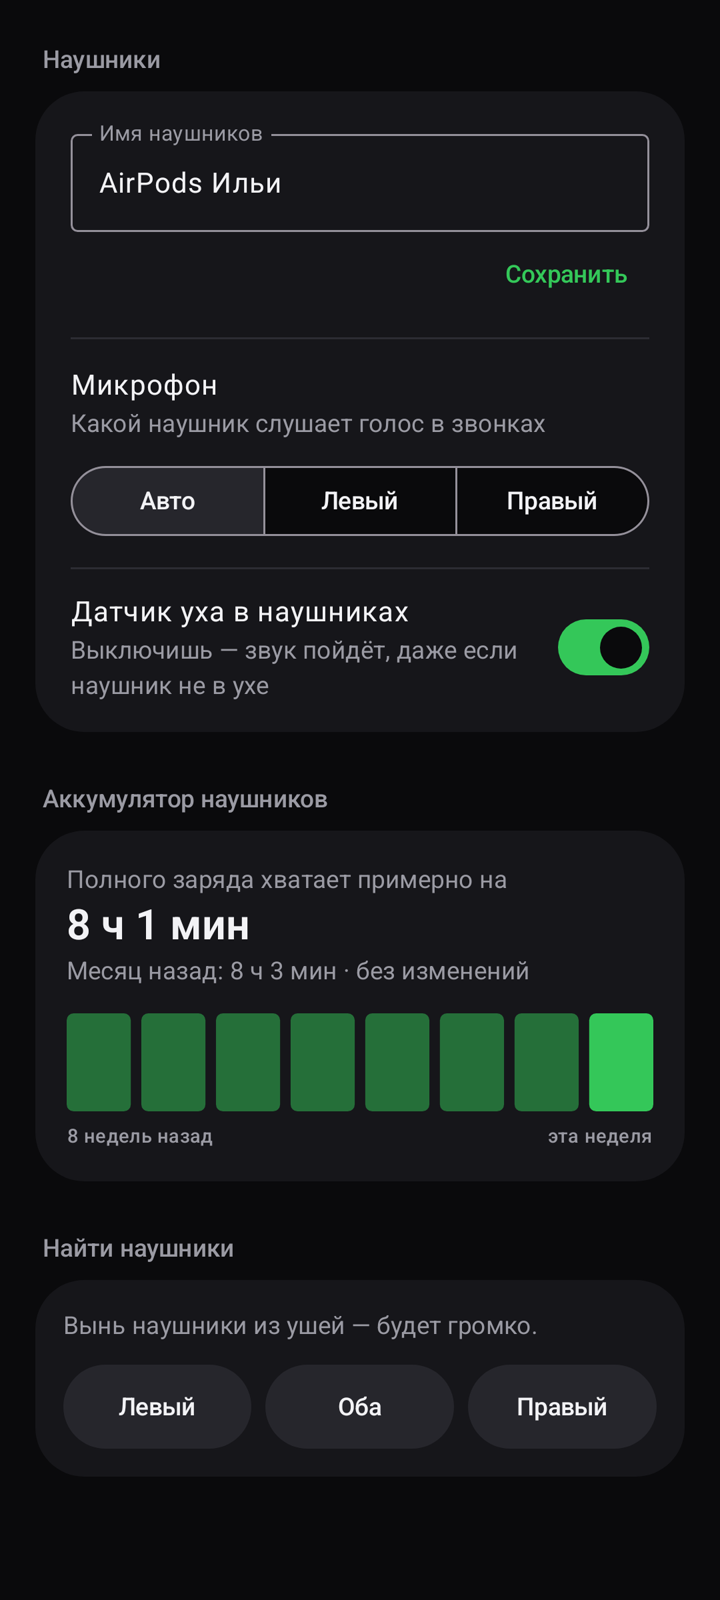
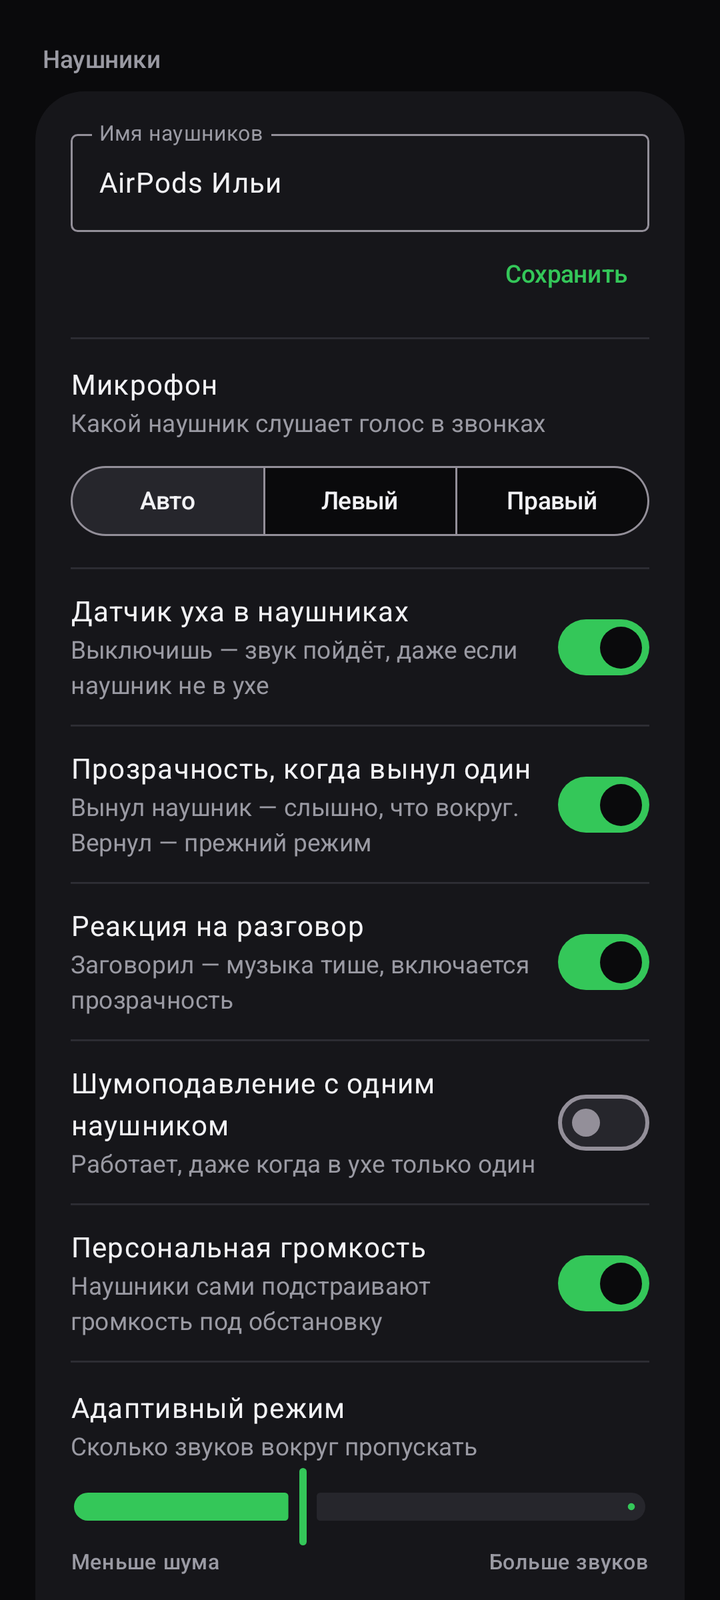
Описание: чем Podsy отличается, новые функции 1.3, свежие скриншоты AirPods Pro 2
Claude-Session: https://claude.ai/code/session_01A8aon8JEjETrjrPoRPeqxm

diff --git a/README.md b/README.md
@@ -23,29 +23,52 @@
 
 ## Что это
 
-**Podsy** показывает заряд AirPods на Android так же, как это делает iPhone: левый наушник, правый и кейс — одним взглядом. Открыли кейс рядом с телефоном — снизу выезжает карточка с зарядом. Вынули наушник — музыка встала на паузу.
+**Podsy** — приложение для AirPods на Android. Показывает заряд левого и правого наушника и кейса так же, как iPhone, и даёт управлять режимами шума AirPods Pro без iPhone и без root.
+
+Открыли кейс рядом с телефоном — снизу выезжает карточка с зарядом. Вынули наушник — музыка на паузе. Вынули один у AirPods Pro — включается прозрачность, слышно, что вокруг.
 
 <p align="center">
-  <img src="docs/main.png" width="240" alt="Главный экран">
+  <img src="docs/main.png" width="240" alt="Главный экран: заряд и режим шума">
+  &nbsp;
+  <img src="docs/controls.png" width="240" alt="Настройки AirPods Pro">
   &nbsp;
   <img src="docs/popup.png" width="240" alt="Окно при открытии кейса">
-  &nbsp;
-  <img src="docs/controls.png" width="240" alt="Настройки наушников и аккумулятор">
 </p>
+
+## Чем Podsy отличается
+
+| | Podsy | Обычно в других приложениях |
+|---|---|---|
+| Точность заряда | **До 1%**, пока наушники подключены | Шаг 10% |
+| Режимы шума AirPods Pro | **Есть**, без root | Нет или только с root |
+| Настройки AirPods (имя, микрофон, сжатие ножки) | **Есть**, без root | Нет или только с root |
+| Реклама и платные функции | **Нет**, всё бесплатно | Реклама или часть функций за деньги |
+| Доступ в интернет | **Нет такого разрешения** | Обычно есть |
+
+Точный заряд и настройки идут по закрытому протоколу Apple. На Honor Magic 8 Pro он работает без root. Если какой-то телефон его не пускает, Podsy показывает приблизительный заряд, как остальные приложения.
+
+## Чего нет даже на iPhone
+
+- 👂 **Автопрозрачность.** Вынул один наушник AirPods Pro — включается прозрачность, вернул — прежний режим.
+- 📈 **История заряда за сутки** и оценка «хватит примерно на…».
+- 🔋 **Износ аккумулятора наушников** по неделям.
+
+## Что умеет
 
 | | |
 |---|---|
-| 🔋 **Точный заряд** | До 1% у каждого наушника и кейса, пока наушники подключены |
-| 🪟 **Окно при открытии кейса** | Как на iPhone — карточка снизу экрана |
+| 🔋 **Заряд** | Левый, правый, кейс. Последний заряд кейса не пропадает, видно, сколько минут назад он был |
+| 🎧 **Режим шума** | Шумоподавление, прозрачность, адаптивный — на главном экране и плиткой в шторке |
+| 🎚 **Адаптивный режим** | Ползунок: сколько звуков вокруг пропускать |
+| 👆 **Ножка AirPods Pro** | Громкость свайпом, между какими режимами переключает долгое сжатие |
+| 🗣 **Реакция на разговор** | Заговорил — музыка тише, включается прозрачность |
+| 🪟 **Окно при открытии кейса** | Как на iPhone, с рисунком именно ваших наушников |
 | ⏸ **Автопауза** | Вынул наушник — пауза, вернул — музыка продолжается |
-| 📱 **Всегда на виду** | Виджеты 3×1 и 1×1, плитка в шторке, цифра в строке состояния |
+| 📱 **Всегда на виду** | Виджеты 3×1 и 1×1, плитки в шторке, цифра в строке состояния, плашка Live Update на Android 16 |
 | 🔔 **Напоминания** | При 20% и 10% заряда и когда наушники зарядились |
-| 📈 **История** | График за сутки, «хватит примерно на…», износ аккумулятора по неделям |
-| 🔊 **Найти наушники** | Громкий писк в левый или правый наушник; место, где отключились |
-| 🎧 **Режим шума** | Для AirPods Pro: шумоподавление, прозрачность, адаптивный — на экране и плиткой в шторке |
-| 👂 **Автопрозрачность** | Вынул один наушник — слышно, что вокруг; вернул — прежний режим |
-| ⚙ **Настройки AirPods** | Имя, микрофон, датчик уха; у Pro — реакция на разговор, персональная громкость, сжатие ножки |
-| 🎨 **Material You** | Цвета берутся из ваших обоев, тёмная тема, крупный шрифт и TalkBack |
+| 🔊 **Найти наушники** | Громкий писк в левый или правый наушник; место, где они отключились |
+| ⚙ **Настройки AirPods** | Имя, какой микрофон работает, датчик уха, шумоподавление с одним наушником |
+| 🎨 **Material You** | Цвета из ваших обоев, тёмная тема, крупный шрифт и TalkBack |
 
 <p align="center">
   <img src="docs/settings.png" width="240" alt="Настройки">
@@ -94,7 +117,7 @@ AirPods 2, 3, Pro, Pro 2 и Pro 3. Проверено на AirPods Pro 2 (USB‑
 <details>
 <summary><b>Как обновить?</b></summary>
 
-Скачайте новую версию той же кнопкой и установите поверх. Удалять старую не нужно.
+В приложении: Настройки → «Проверить обновления» откроет страницу последней версии. Скачайте её и установите поверх, удалять старую не нужно.
 </details>
 
 ## Приватность
